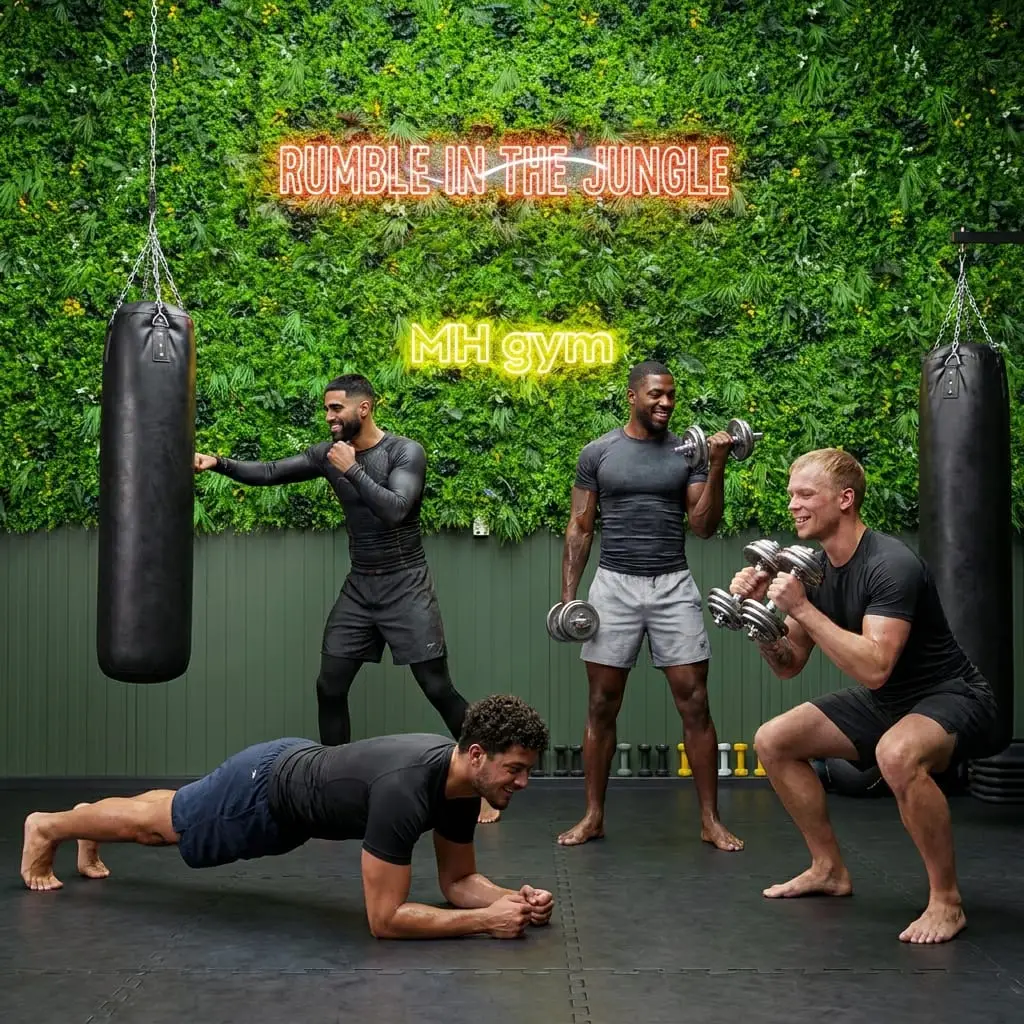
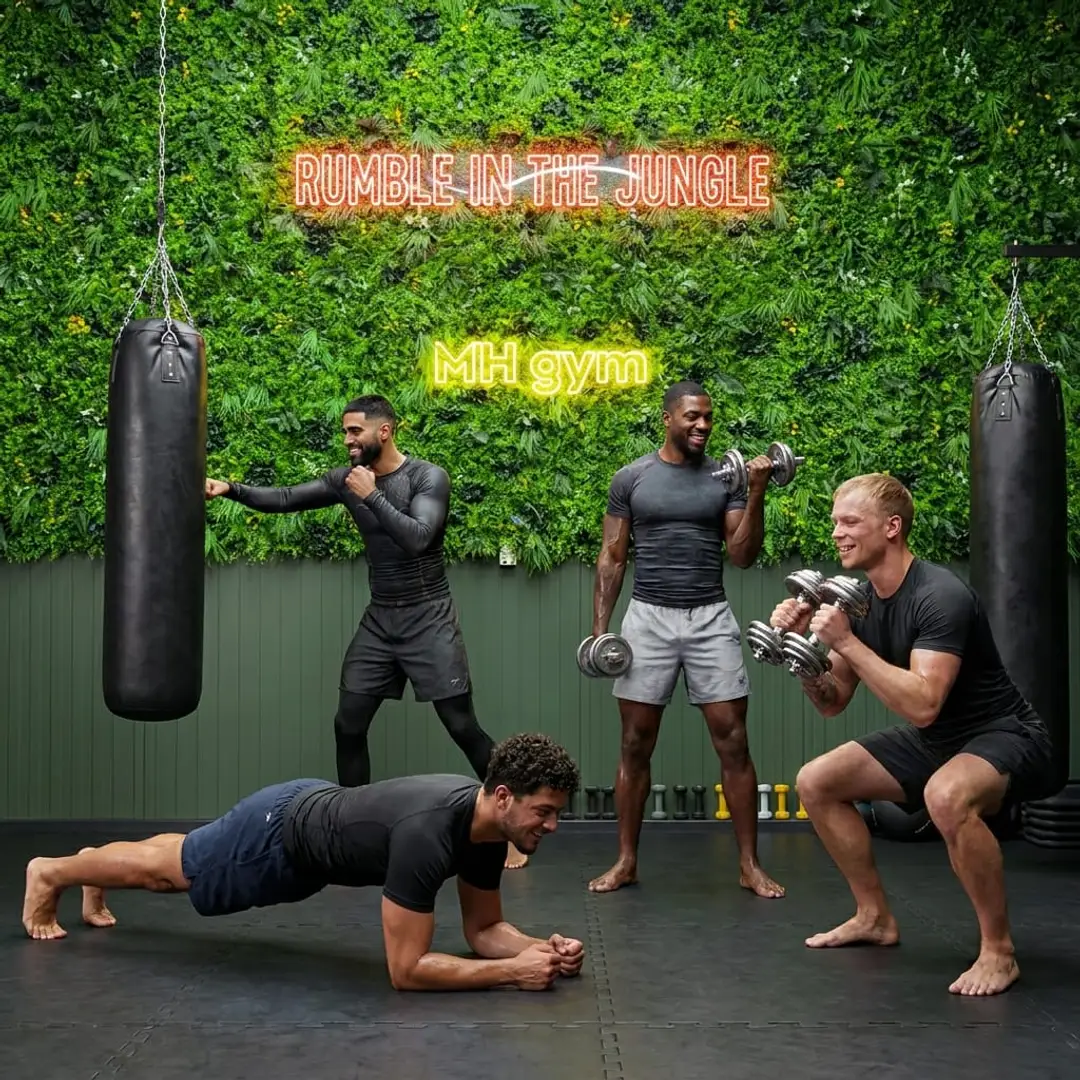
Small group photo: stack layout on mobile, restore full frame
The wide group shot couldn't sit behind the heading on a phone-tall
hero without hard zoom or an unreadable heading over the plant wall.
Below 640px the section now stacks — 16:10 photo strip on top, copy on
solid ground beneath — and the veil is dropped there. Desktop keeps
the full-bleed treatment. Source reverted to the full frame; framing
is done in CSS via object-position.

diff --git a/assets/css/mh.css b/assets/css/mh.css
@@ -622,7 +622,7 @@ a { color: inherit; text-decoration: none; }
 /* --------------------------------------------------- 15. ENVIRONMENT (S6) */
 .env { position: relative; min-height: clamp(36rem, 92svh, 54rem); overflow: hidden; display: grid; align-items: end; }
 .env__canvas { position: absolute; inset: 0; width: 100%; height: 100%; }
-.env__photo { position: absolute; inset: 0; width: 100%; height: 100%; object-fit: cover; object-position: 50% 60%; }
+.env__photo { position: absolute; inset: 0; width: 100%; height: 100%; object-fit: cover; object-position: 50% 40%; }
 /* The scrim only covers the band the copy occupies — the equipment sits above it */
 .env__veil { position: absolute; inset: 0; pointer-events: none; background: linear-gradient(0deg, rgba(7,7,10,0.97) 8%, rgba(7,7,10,0.82) 30%, rgba(7,7,10,0.45) 48%, transparent 70%), linear-gradient(90deg, rgba(7,7,10,0.72), transparent 42%); }
 .env__inner { position: relative; padding-block: clamp(var(--s-6), 6vh, var(--s-9)); display: grid; gap: var(--s-5); }
@@ -631,6 +631,17 @@ a { color: inherit; text-decoration: none; }
 .env__inner > * { text-shadow: 0 1px 16px rgba(7, 7, 10, 0.65); }
 .env__inner .chip { text-shadow: none; }
 .env__legend { display: flex; flex-wrap: wrap; gap: var(--s-3); }
+
+/* On phones a wide group photo can't be cropped into a tall hero without
+   either zooming in hard or burying the heading under the bright plant
+   wall. Stack instead: photo strip on top, copy on solid ground below. */
+@media (max-width: 640px) {
+  .env { min-height: 0; display: block; background: var(--ink); overflow: visible; }
+  .env__photo { position: relative; height: auto; aspect-ratio: 16 / 10; object-position: 50% 38%; }
+  .env__veil { display: none; }
+  .env__inner { padding-top: var(--s-6); }
+  .env__inner > * { text-shadow: none; }
+}
 
 /* -------------------------------------------------------- 16. COACH (S7) */
 .coach { display: grid; gap: clamp(var(--s-6), 5vw, var(--s-9)); align-items: start; }
